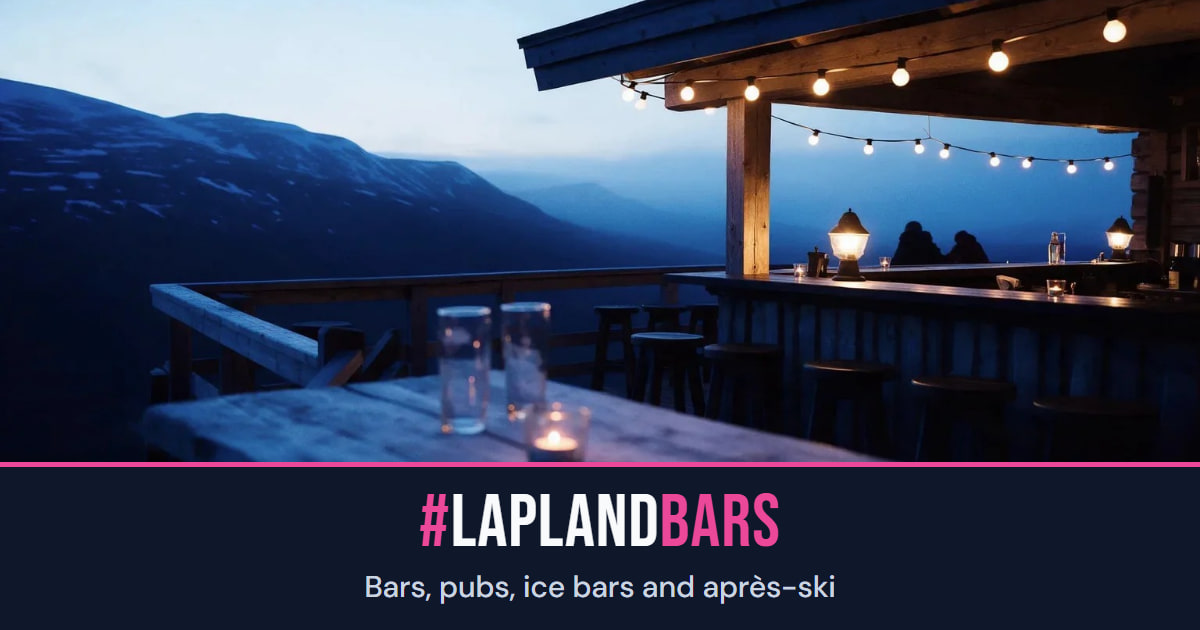
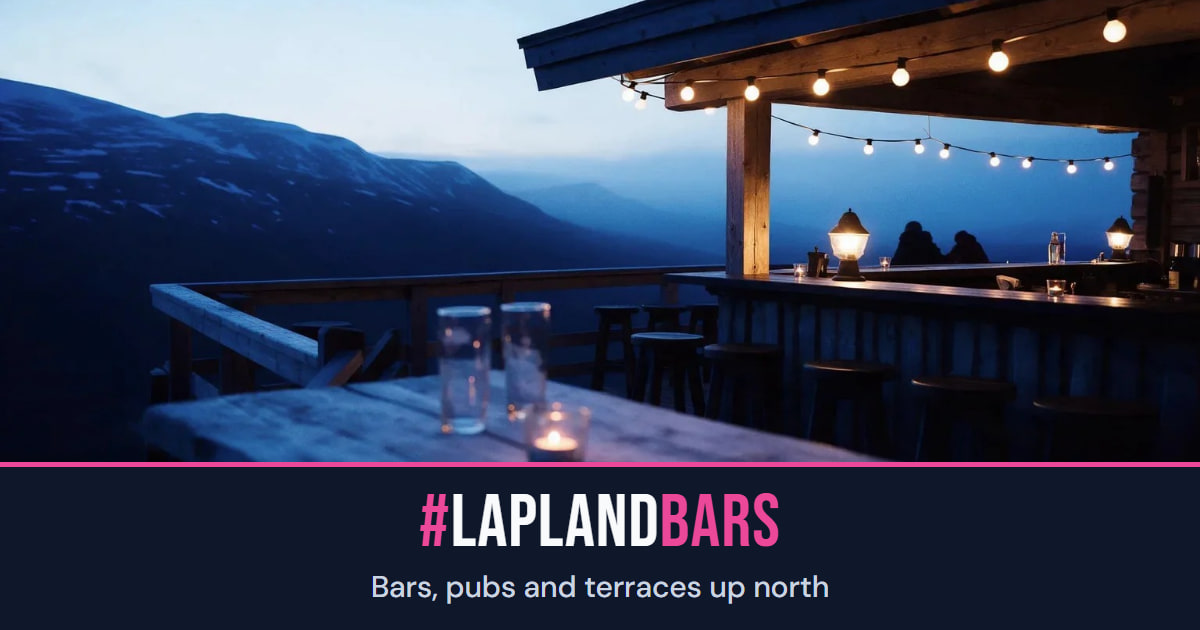
Jakokortti: kauden oma kuva JA kauden oma teksti
Vesa 21.9.2026: "eiko naihinkin pida olla saanto etta kesalla jaetaan
kesakuva ja teksti liittyy kesaan? nyt ouhut kesakuvassa aurorasta?"

Kortin kuva vaihtui kauden mukaan jo, teksti ei. Rekisterissa on nyt
taglineKesa ja taglineTalvi, ja kortit on tehty uudelleen molemmille
kausille. OG_VERSION nostettu, jotta uusi kortti nakyy jaossa heti eika
vasta kun some-palvelun valimuisti vanhenee.

Changed region(s): [[0.3083, 0.9048, 0.7092, 0.9651]]

diff --git a/index.html b/index.html
@@ -225,15 +225,15 @@
     }
     </script>
       <!-- Open Graph image (1200×630 JPEG) -->
-    <meta property="og:image" content="https://laplandbars.com/og.jpg?v=20260905" />
-    <meta property="og:image:secure_url" content="https://laplandbars.com/og.jpg?v=20260905" />
+    <meta property="og:image" content="https://laplandbars.com/og.jpg?v=20260921" />
+    <meta property="og:image:secure_url" content="https://laplandbars.com/og.jpg?v=20260921" />
     <meta property="og:image:type" content="image/jpeg" />
     <meta property="og:image:width" content="1200" />
     <meta property="og:image:height" content="630" />
     <meta property="og:image:alt" content="Bar in Finnish Lapland. #LAPLANDBARS" />
     <!-- Twitter card -->
     <meta name="twitter:card" content="summary_large_image" />
-    <meta name="twitter:image" content="https://laplandbars.com/og.jpg?v=20260905" />
+    <meta name="twitter:image" content="https://laplandbars.com/og.jpg?v=20260921" />
     <meta name="twitter:image:alt" content="Bar in Finnish Lapland. #LAPLANDBARS" />
       <!-- Favicon stack (LV ecosystem unified design) -->
     <link rel="icon" href="/favicon.svg?v=20260626b" type="image/svg+xml" />
